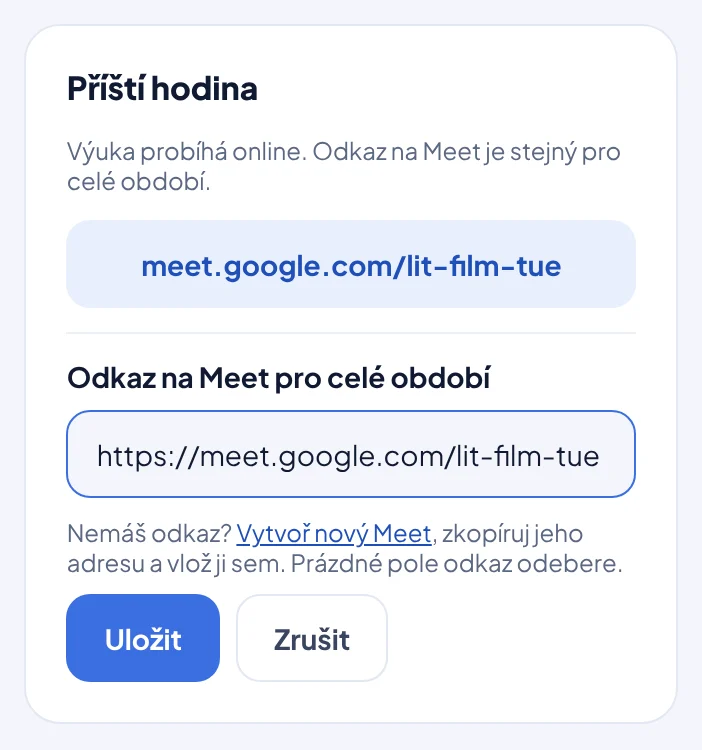
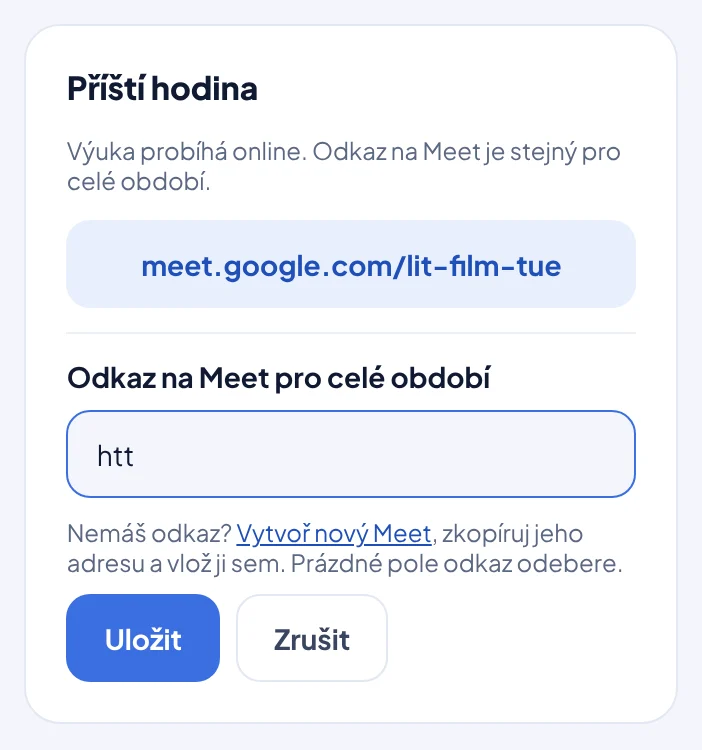
Nápověda: plynulé psaní (po slovech, bez prolínání a problikávání), bublina mimo popisek pole
Claude-Session: https://claude.ai/code/session_01S4k3G4RvgMHKPCyowCDzNN

Changed region(s): [[0.1795, 0.5827, 0.8675, 0.644]]

diff --git a/src/components/help/HelpShot.tsx b/src/components/help/HelpShot.tsx
@@ -19,7 +19,7 @@ const HINT: Record<HelpShotData["action"], string | null> = {
 };
 
 /** Kroky animace (ms od začátku). */
-const T = { show: 250, move: 450, press: 1450, result: 1800, typeStep: 420, hold: 2600 };
+const T = { show: 250, move: 450, press: 1450, result: 1800, typeStep: 170, hold: 2600 };
 
 function reducedMotion() {
   return typeof window !== "undefined" && window.matchMedia("(prefers-reduced-motion: reduce)").matches;
@@ -32,6 +32,8 @@ export function HelpShot({ shot, label }: { shot: HelpShotData; label: string })
   const [frame, setFrame] = useState(0);
   const [run, setRun] = useState(0);
   const [still, setStill] = useState(false);
+  // Animace začne, až jsou načtené všechny snímky kroku (jinak by při psaní problikávaly).
+  const [ready, setReady] = useState(false);
   const last = shot.frames.length - 1;
 
   // Přehrává se jen krok, který je vidět.
@@ -44,7 +46,19 @@ export function HelpShot({ shot, label }: { shot: HelpShotData; label: string })
   }, []);
 
   useEffect(() => {
-    if (!visible) return;
+    if (!visible || ready) return;
+    let alive = true;
+    const imgs = Array.from(box.current?.querySelectorAll("img") ?? []);
+    void Promise.all(imgs.map((img) => img.decode().catch(() => undefined))).then(() => {
+      if (alive) setReady(true);
+    });
+    return () => {
+      alive = false;
+    };
+  }, [visible, ready]);
+
+  useEffect(() => {
+    if (!visible || !ready) return;
     if (reducedMotion()) {
       const t = setTimeout(() => {
         setStill(true);
@@ -73,7 +87,7 @@ export function HelpShot({ shot, label }: { shot: HelpShotData; label: string })
     }
     at(end + T.hold, () => setRun((r) => r + 1));
     return () => timers.forEach(clearTimeout);
-  }, [visible, run, shot, last]);
+  }, [visible, ready, run, shot, last]);
 
   const t = shot.target;
   const cx = t ? (t.x + t.w / 2) * 100 : 50;
@@ -93,6 +107,8 @@ export function HelpShot({ shot, label }: { shot: HelpShotData; label: string })
   const showRing = t && phase !== "start" && !changed;
   // Bublina nad prvkem, u horního okraje pod ním.
   const hintBelow = t ? t.y < 0.18 : false;
+  // U širokých polí bublina vpravo nad polem, ať nezakrývá popisek vlevo.
+  const hintRight = t ? t.w > 0.3 || shot.action === "type" : false;
 
   return (
     <figure className={styles.shot} aria-label={label}>
@@ -109,8 +125,10 @@ export function HelpShot({ shot, label }: { shot: HelpShotData; label: string })
             alt={i === 0 ? label : ""}
             aria-hidden={i === 0 ? undefined : true}
             className={styles.frame}
-            data-on={i === frame || undefined}
-            loading="lazy"
+            // Při psaní zůstávají vidět i předchozí snímky pod aktuálním.
+            data-on={i === frame || (shot.action === "type" && i < frame) || undefined}
+            data-instant={(shot.action === "type" && i > 0) || undefined}
+            loading={i === 0 ? "lazy" : "eager"}
             decoding="async"
             draggable={false}
           />
@@ -129,7 +147,11 @@ export function HelpShot({ shot, label }: { shot: HelpShotData; label: string })
             className={styles.hint}
             data-on={showRing || undefined}
             data-below={hintBelow || undefined}
-            style={{ left: `${Math.min(Math.max(cx, 8), 92)}%`, top: `${(hintBelow ? t.y + t.h : t.y) * 100}%` }}
+            data-right={hintRight || undefined}
+            style={{
+              left: `${hintRight ? (t.x + t.w) * 100 : Math.min(Math.max(cx, 8), 92)}%`,
+              top: `${(hintBelow ? t.y + t.h : t.y) * 100}%`,
+            }}
             aria-hidden="true"
           >
             {hint}

diff --git a/scripts/help-shots.ts b/scripts/help-shots.ts
@@ -139,12 +139,17 @@ async function shoot(page: Page, slug: string, index: number, shot: HelpShot): P
     kind = "type";
     await target.click();
     if (action.clear) await target.fill("");
-    // Píše se po kouscích, každý kousek = jeden snímek animace.
-    const words = action.type.split(/(?<=\s)/);
-    const parts = Math.min(5, words.length);
-    const per = Math.ceil(words.length / parts);
-    for (let i = 0; i < words.length; i += per) {
-      await target.pressSequentially(words.slice(i, i + per).join(""));
+    // Píše se po slovech (krátký text po písmenech), každý kousek = jeden
+    // snímek animace; nejvýš 16 snímků.
+    const text = action.type;
+    const words = text.split(/(?<=\s)/);
+    let pieces = words.length >= 4 ? words : (text.match(/[\s\S]{1,3}/g) ?? [text]);
+    if (pieces.length > 16) {
+      const per = Math.ceil(pieces.length / 16);
+      pieces = Array.from({ length: Math.ceil(pieces.length / per) }, (_, i) => pieces.slice(i * per, i * per + per).join(""));
+    }
+    for (const piece of pieces) {
+      await target.pressSequentially(piece);
       shots.push(await grab(page));
     }
     await grow();
@@ -183,11 +188,12 @@ async function main() {
   for (const guide of HELP_GUIDES) {
     if (only && guide.slug !== only) continue;
     console.log(`Návod: ${guide.title}`);
-    rmSync(`${OUT}/${guide.slug}`, { recursive: true, force: true });
-    mkdirSync(`${OUT}/${guide.slug}`, { recursive: true });
     const context = await browser.newContext({ viewport: VIEW, deviceScaleFactor: SCALE, locale: "cs-CZ", timezoneId: "Europe/Prague" });
     const page = await context.newPage();
     await login(page, guide.demoUser);
+    // Staré snímky smazat až po úspěšném přihlášení (když aplikace neběží, zůstanou).
+    rmSync(`${OUT}/${guide.slug}`, { recursive: true, force: true });
+    mkdirSync(`${OUT}/${guide.slug}`, { recursive: true });
     const steps: (ShotFrames | null)[] = [];
     for (const [i, step] of guide.steps.entries()) {
       if (!step.shot) {

diff --git a/src/components/help/help.module.css b/src/components/help/help.module.css
@@ -285,6 +285,10 @@
 .frame[data-on] {
   opacity: 1;
 }
+/* Psaní: snímky se střídají okamžitě, bez prolínání (jinak text bliká). */
+.frame[data-instant] {
+  transition: none;
+}
 .ring {
   position: absolute;
   margin: -5px 0 0 -5px;
@@ -326,6 +330,12 @@
 }
 .hint[data-below] {
   transform: translate(-50%, 14px);
+}
+.hint[data-right] {
+  transform: translate(-100%, calc(-100% - 14px));
+}
+.hint[data-right][data-below] {
+  transform: translate(-100%, 14px);
 }
 .hint[data-on] {
   opacity: 1;
